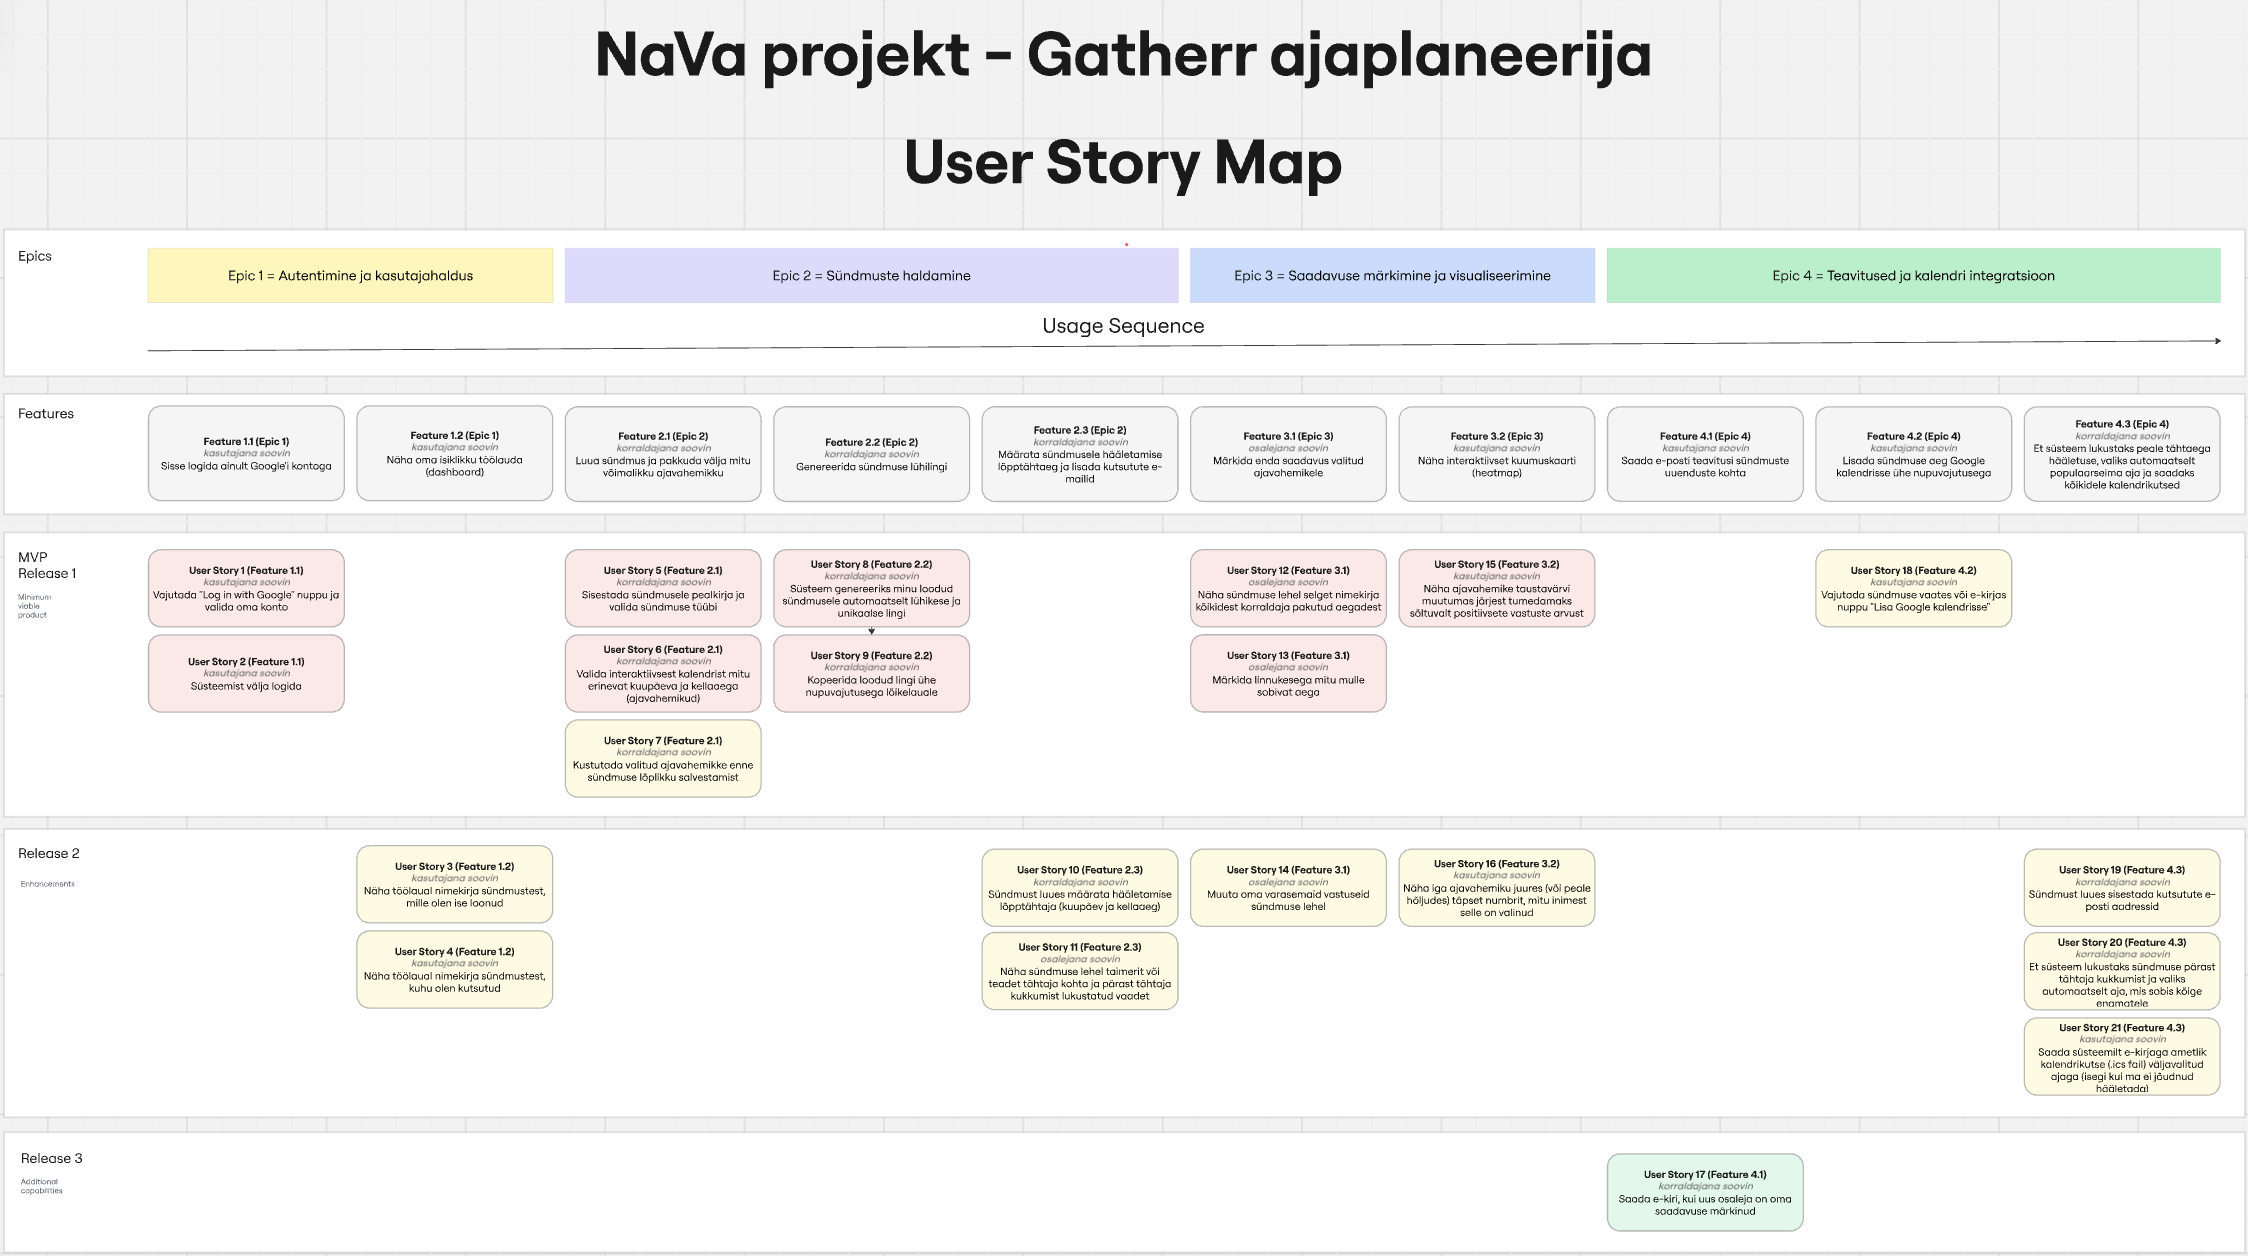
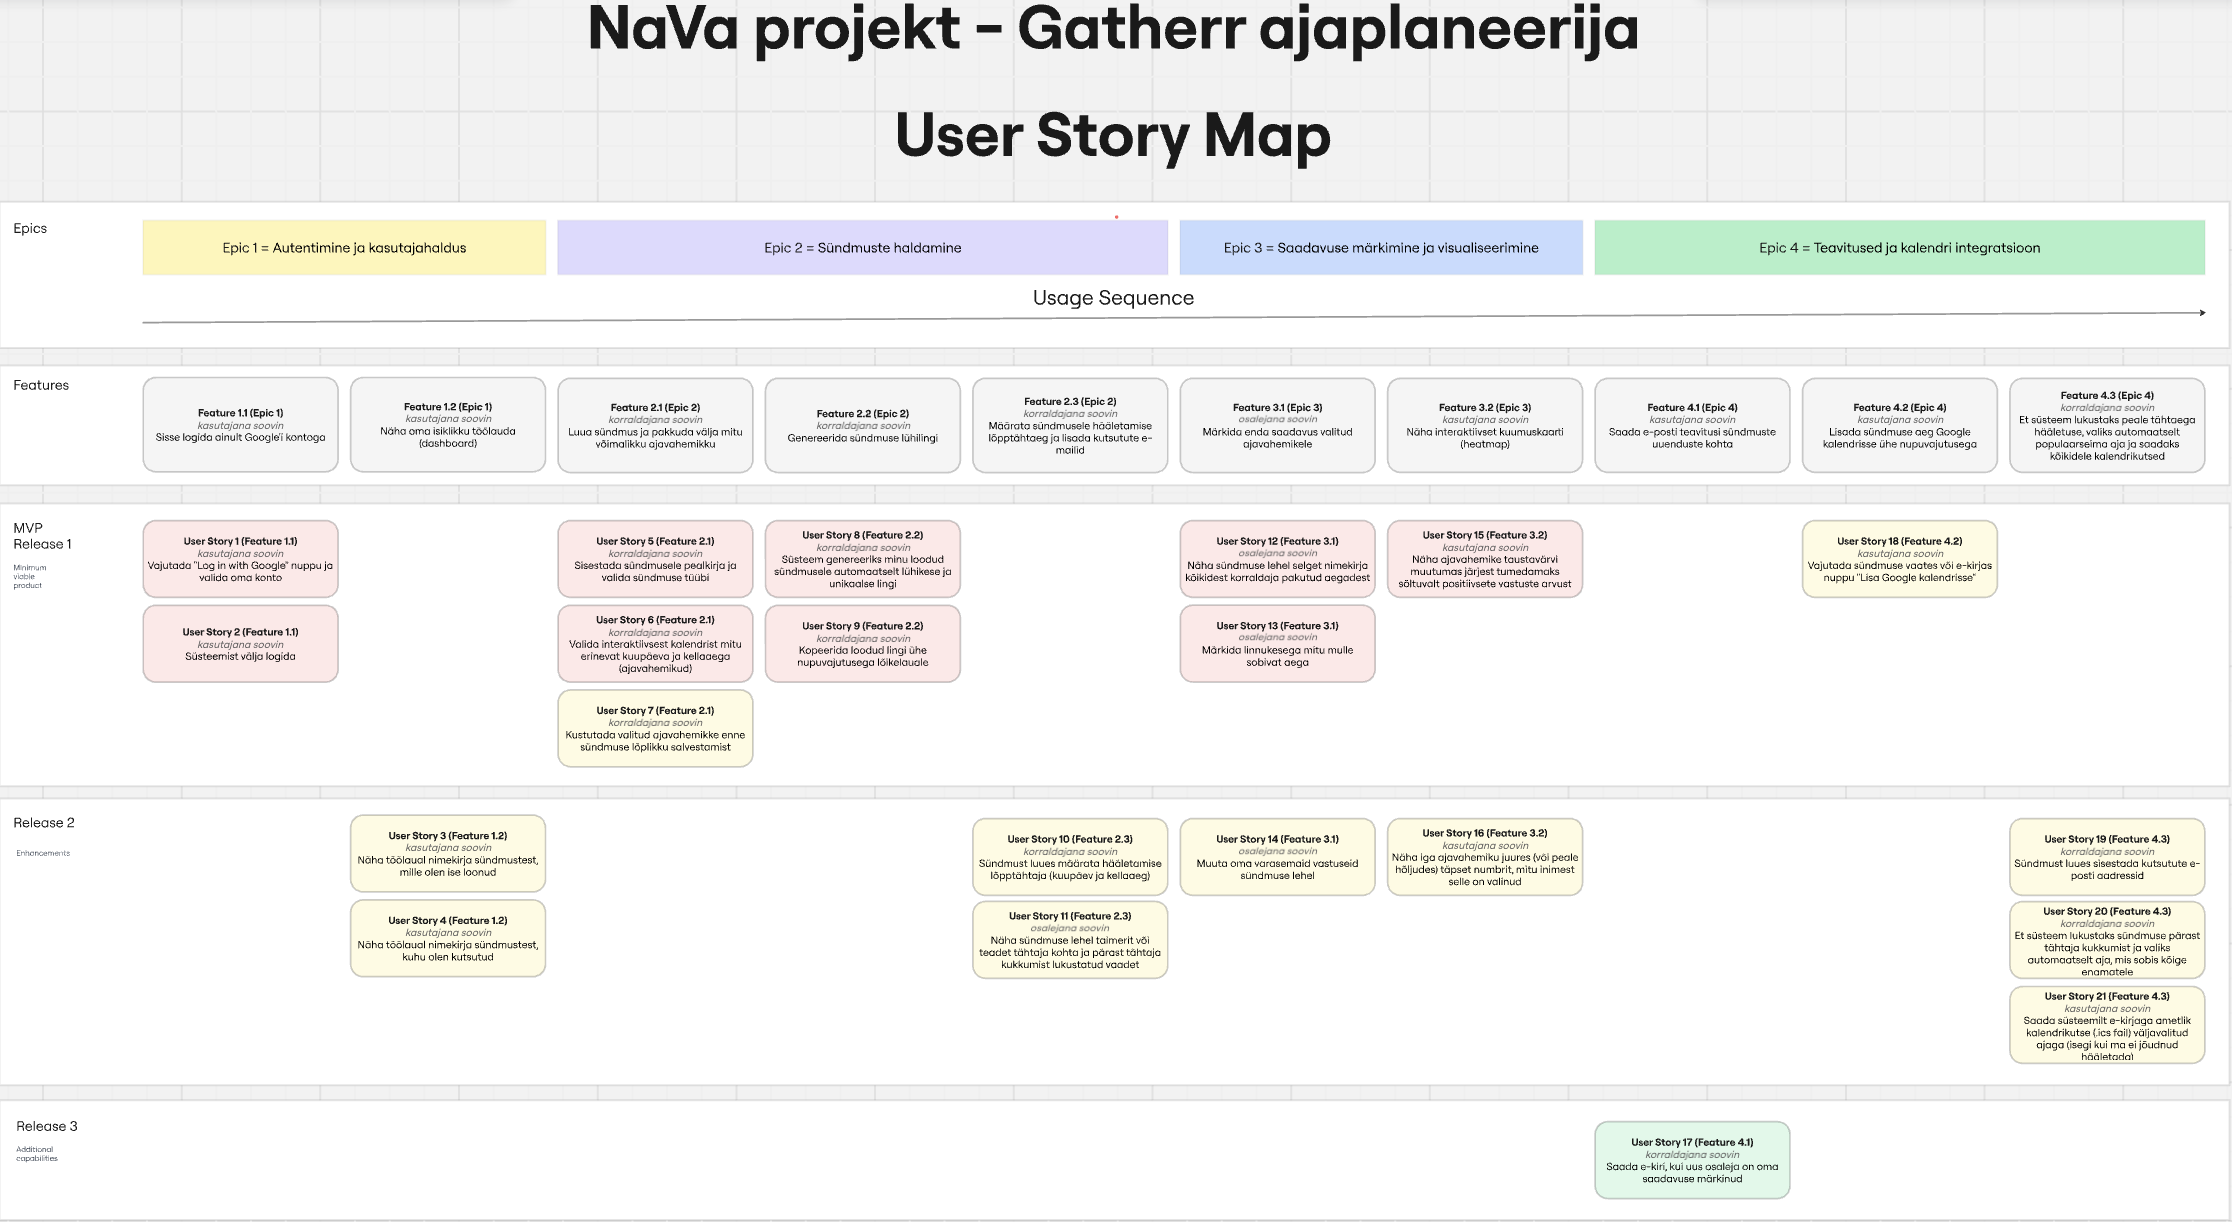
docs: add Miro link, try out another png version

diff --git a/SoW.md b/SoW.md
@@ -46,7 +46,7 @@ order are carried out? These should be each 10-30h of work. -->
 ## Scopes
 
 ![User Story Map](assets/user_story_map.png)
-*Find the descriptions of epics and features [here](https://docs.google.com/spreadsheets/d/1f844HUPM9E4NWakyvCns_9bq4ZNSDYBC/edit?usp=sharing&ouid=110624334815444723249&rtpof=true&sd=true).*
+*Find the link to the user story map in Miro [here](https://miro.com/app/board/uXjVJC_HDu8=/?share_link_id=12787197284) and the descriptions of epics and features [here](https://docs.google.com/spreadsheets/d/1f844HUPM9E4NWakyvCns_9bq4ZNSDYBC/edit?usp=sharing&ouid=110624334815444723249&rtpof=true&sd=true).*
 
 ### ✅ Scope 1 (pre-MVP): Figma Prototype Demo (Deadline: 04.04) 
 
